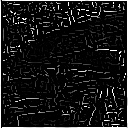
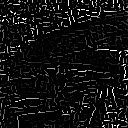
fix 041~050, padding

Changed region(s): [[0.0, 0.0, 1.0, 1.0]]

diff --git a/q41_50/lib4150.py b/q41_50/lib4150.py
@@ -9,8 +9,8 @@ from q11_20 import lib1120
 def Canny_edge_strength(img, k, sigma):
     img = img.astype(np.float64)
     img1 = lib0110.BGR2GRAY(img)
-    img2 = lib0110.Gaussian_filter(img1, k=k, sigma=sigma)
-    img3v, img3h = lib1120.Sobel_filter(img2)
+    img2 = lib0110.Gaussian_filter(img1, k=k, sigma=sigma, padding_type='edge')
+    img3v, img3h = lib1120.Sobel_filter(img2, padding_type='edge')
     edge = np.sqrt(img3h * img3h + img3v * img3v)
     img3h[img3h == 0] = 1e-5
     tan = np.arctan(img3v / img3h)
@@ -64,6 +64,7 @@ def Canny_threshold_processing(edge, HT, LT):
     height, width = edge.shape
     e2 = np.zeros_like(edge)
     padimg = np.pad(edge,[(1,1),(1,1)],'constant')
+    mul = np.array([[1,1,1],[1,0,1],[1,1,1]])
     for y in range(height):
         for x in range(width):
             if edge[y,x]>HT:
@@ -71,10 +72,8 @@ def Canny_threshold_processing(edge, HT, LT):
             elif edge[y,x]<LT:
                 e2[y,x]=0
             else:
-                for dy in range(2):
-                    for dx in range(2):
-                        if padimg[y+dy, x+dx]>HT:
-                            e2[y,x] = 255
+                if np.max(padimg[y:y+3, x:x+3] * mul) > HT:
+                    e2[y,x]=255
     return e2
 
 def Canny(img, Gaussian_k, Gaussian_sigma, HT, LT):
@@ -89,7 +88,7 @@ def Hough_transform(edge):
     height, width = edge.shape
     rmax = int(np.sqrt(height**2 + width**2))
 
-    table = np.zeros((rmax, 180))
+    table = np.zeros((rmax, 180),dtype=np.int)
     for y in range(height):
         for x in range(width):
             if edge[y,x]!=0:
@@ -99,6 +98,8 @@ def Hough_transform(edge):
                     table[r, t] += 1
     return table
 
+
+# 45
 def Hough_NMS(table, line_num):
     height, width = table.shape
     pix = height* width

diff --git a/q01_10/lib0110.py b/q01_10/lib0110.py
@@ -144,12 +144,12 @@ def max_pooling(img,pixels):
     return out
 
 # 09
-def Gaussian_filter(img, k, sigma):
+def Gaussian_filter(img, k, sigma, padding_type='constant'):
     if len(img.shape)==2:
         img = np.expand_dims(img, axis=-1)
     img = img.astype(np.float64)
     pad_size = k // 2
-    padimg = np.pad(img,[(pad_size,pad_size),(pad_size,pad_size),(0,0)],'constant')
+    padimg = np.pad(img,[(pad_size,pad_size),(pad_size,pad_size),(0,0)],padding_type)
     height,width,C = img.shape
     out = np.zeros((height,width,C))
 

diff --git a/q41_50/045.py b/q41_50/045.py
@@ -11,8 +11,8 @@ if __name__ == '__main__':
     img = cv2.imread("Gasyori100knock/Question_41_50/thorino.jpg")
 
     canny_edge = lib4150.Canny(img, Gaussian_k=5, Gaussian_sigma=1.4, HT=100, LT=30).clip(0,255).astype(np.uint8)
-    out = lib4150.Hough_transform(canny_edge).clip(0,255).astype(np.uint8)
-    out = lib4150.Hough_NMS(out).clip(0,255).astype(np.uint8)
+    out = lib4150.Hough_transform(canny_edge)
+    out = lib4150.Hough_NMS(out,10).clip(0,255).astype(np.uint8)
 
     cv2.imshow("imori", out)
     cv2.waitKey(0)

diff --git a/q41_50/046.py b/q41_50/046.py
@@ -12,7 +12,13 @@ if __name__ == '__main__':
     #img = cv2.imread("../../../Desktop/download.jpg")
 
     canny_edge = lib4150.Canny(img, Gaussian_k=5, Gaussian_sigma=1.4, HT=100, LT=30).clip(0,255).astype(np.uint8)
-    out = lib4150.Hough(img, canny_edge, 30)
+    
+    cv2.imshow("imori", canny_edge)
+    cv2.waitKey(0)
+    cv2.imwrite("q41_50/046a.jpg", canny_edge)
+    cv2.destroyAllWindows()
+
+    out = lib4150.Hough(img, canny_edge, 20)
 
     cv2.imshow("imori", out)
     cv2.waitKey(0)

diff --git a/q11_20/lib1120.py b/q11_20/lib1120.py
@@ -68,9 +68,9 @@ def Differential_filter(img):  # for gray-scale image
 
 
 # 15
-def Sobel_filter(img):  # for gray-scale image
+def Sobel_filter(img, padding_type='constant'):  # for gray-scale image
     img = img.astype(np.float64)
-    padimg = np.pad(img,[(1,1),(1,1)],'constant')
+    padimg = np.pad(img,[(1,1),(1,1)],padding_type)
     height,width = img.shape
     outv = np.zeros((height,width))
     vecv = np.array([[1, 2, 1], [0, 0, 0], [-1, -2, -1]])

diff --git a/q01_10/006.py b/q01_10/006.py
@@ -8,5 +8,5 @@ if __name__ == '__main__':
     
     cv2.imshow("imori", ans)
     cv2.waitKey(0)
-    cv2.imwrite("q1-10/006.jpg", ans)
+    cv2.imwrite("q01_10/006.jpg", ans)
     cv2.destroyAllWindows()

diff --git a/q11_20/013.py b/q11_20/013.py
@@ -12,5 +12,5 @@ if __name__ == '__main__':
 
     cv2.imshow("imori", ans)
     cv2.waitKey(0)
-    cv2.imwrite("q11-20/013.jpg", ans)
+    cv2.imwrite("q11_20/013.jpg", ans)
     cv2.destroyAllWindows()

diff --git a/q01_10/001.py b/q01_10/001.py
@@ -13,5 +13,5 @@ if __name__ == '__main__':
 
     cv2.imshow("imori", ans)
     cv2.waitKey(0)
-    cv2.imwrite("q1-10/001.jpg", ans)
+    cv2.imwrite("q01_10/001.jpg", ans)
     cv2.destroyAllWindows()

diff --git a/q11_20/011.py b/q11_20/011.py
@@ -8,5 +8,5 @@ if __name__ == '__main__':
 
     cv2.imshow("imori", ans)
     cv2.waitKey(0)
-    cv2.imwrite("q11-20/011.jpg", ans)
+    cv2.imwrite("q11_20/011.jpg", ans)
     cv2.destroyAllWindows()

diff --git a/q11_20/012.py b/q11_20/012.py
@@ -8,5 +8,5 @@ if __name__ == '__main__':
 
     cv2.imshow("imori", ans)
     cv2.waitKey(0)
-    cv2.imwrite("q11-20/012.jpg", ans)
+    cv2.imwrite("q11_20/012.jpg", ans)
     cv2.destroyAllWindows()

diff --git a/q01_10/002.py b/q01_10/002.py
@@ -8,5 +8,5 @@ if __name__ == '__main__':
 
     cv2.imshow("imori", ans)
     cv2.waitKey(0)
-    cv2.imwrite("q1-10/002.jpg", ans)
+    cv2.imwrite("q01_10/002.jpg", ans)
     cv2.destroyAllWindows()

diff --git a/q01_10/003.py b/q01_10/003.py
@@ -9,5 +9,5 @@ if __name__ == '__main__':
 
     cv2.imshow("imori", ans)
     cv2.waitKey(0)
-    cv2.imwrite("q1-10/003.jpg", ans)
+    cv2.imwrite("q01_10/003.jpg", ans)
     cv2.destroyAllWindows()
